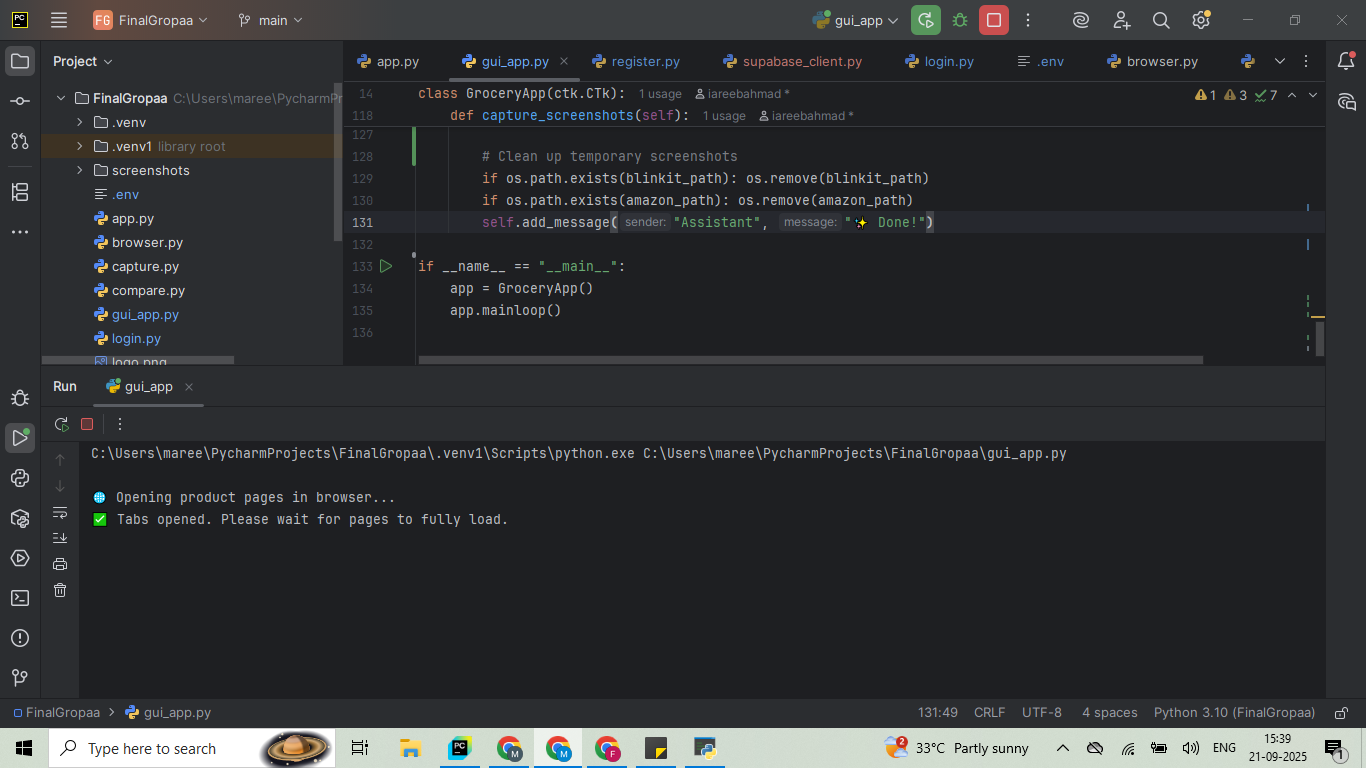
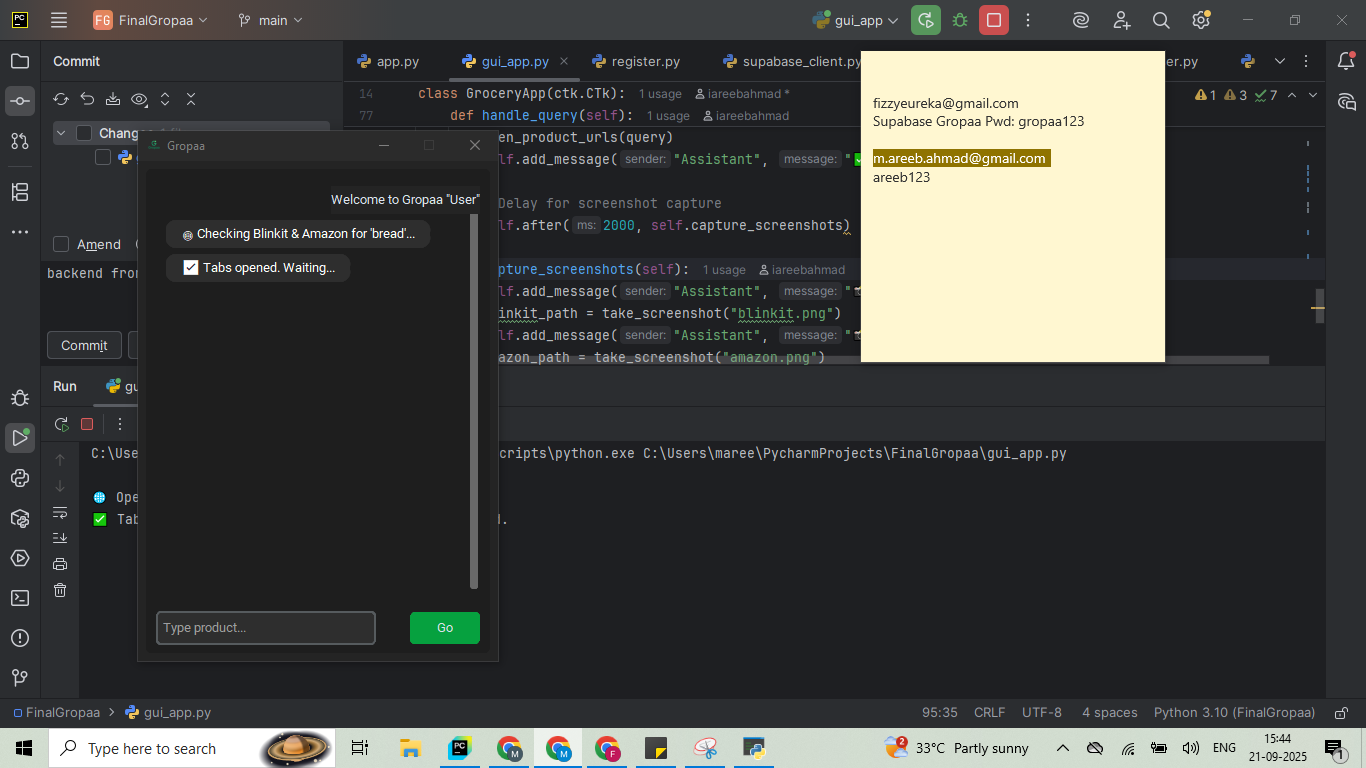
chat frame updated

diff --git a/gui_app.py b/gui_app.py
@@ -14,7 +14,6 @@ ctk.set_default_color_theme("green")
 class GroceryApp(ctk.CTk):
     def __init__(self):
         super().__init__()
-        self.current_mode = "Dark"
         self.geometry("360x500")
         self.resizable(False, False)
         self.title("Gropaa")
@@ -26,47 +25,25 @@ class GroceryApp(ctk.CTk):
             print("⚠ Could not load title bar icon:", e)
 
         # Chat frame (hidden initially)
-        self.chat_frame_main = ctk.CTkFrame(self, fg_color=self.get_bg_color())
+        self.chat_frame_main = ctk.CTkFrame(self, fg_color="#1E1E1E")
         self.chat_widgets = []
 
-        self.chat_frame = ctk.CTkScrollableFrame(self.chat_frame_main, width=320, height=280, fg_color=self.get_bg_color())
+        self.chat_frame = ctk.CTkScrollableFrame(self.chat_frame_main, width=320, height=280, fg_color="#1E1E1E")
         self.chat_frame.pack(padx=8, pady=8, fill="both", expand=True)
 
-        self.input_frame = ctk.CTkFrame(self.chat_frame_main, fg_color=self.get_bg_color())
+        self.input_frame = ctk.CTkFrame(self.chat_frame_main, fg_color="#1E1E1E")
         self.input_frame.pack(fill="x", padx=10, pady=(4,8))
 
         self.input_box = ctk.CTkEntry(self.input_frame, placeholder_text="Type product...", width=220,
-                                      fg_color=self.get_entry_bg())
+                                      fg_color="#2E2E2E")
         self.input_box.pack(side="left", padx=(0,6), ipady=3)
 
         self.send_button = ctk.CTkButton(self.input_frame, text="Go", width=70, height=32,
                                          fg_color=BASE_COLOR, hover_color="#059133", command=self.handle_query)
         self.send_button.pack(side="right")
 
-        # Theme switch
-        self.theme_switch = ctk.CTkSwitch(self, text="🌗", command=self.toggle_theme)
-        self.theme_switch.select()
-        self.theme_switch.place(relx=0.5, rely=0.95, anchor="s")
-
         # Show login frame first
         create_login_frame(self, on_success=self.show_chat_frame)
-
-    def get_bg_color(self):
-        return "#FFFFFF" if self.current_mode=="Light" else "#1E1E1E"
-
-    def get_entry_bg(self):
-        return "#F0F0F0" if self.current_mode=="Light" else "#2E2E2E"
-
-    def toggle_theme(self):
-        self.current_mode = "Dark" if self.theme_switch.get()==1 else "Light"
-        ctk.set_appearance_mode(self.current_mode)
-        self.chat_frame_main.configure(fg_color=self.get_bg_color())
-        self.chat_frame.configure(fg_color=self.get_bg_color())
-        self.input_frame.configure(fg_color=self.get_bg_color())
-        self.input_box.configure(fg_color=self.get_entry_bg())
-        for label in self.chat_widgets:
-            label.configure(fg_color=self.get_bg_color() if label.cget("fg_color")!=BASE_COLOR else BASE_COLOR,
-                            text_color="black" if self.current_mode=="Light" else "white")
 
     # -------------------------
     # Chat functionality
@@ -78,7 +55,7 @@ class GroceryApp(ctk.CTk):
         self.chat_frame_main.pack(fill="both", expand=True, padx=8, pady=8)
 
     def add_message(self, sender, message, is_user=False):
-        bubble_color = BASE_COLOR if is_user else (self.get_bg_color() if self.current_mode=="Light" else "#2E2E2E")
+        bubble_color = BASE_COLOR if is_user else "#2E2E2E"
         anchor_side = "e" if is_user else "w"
 
         label = ctk.CTkLabel(
@@ -89,7 +66,7 @@ class GroceryApp(ctk.CTk):
             anchor="w",
             fg_color=bubble_color,
             corner_radius=10,
-            text_color="black" if self.current_mode=="Light" else "white",
+            text_color="white",
             padx=6,
             pady=3
         )
